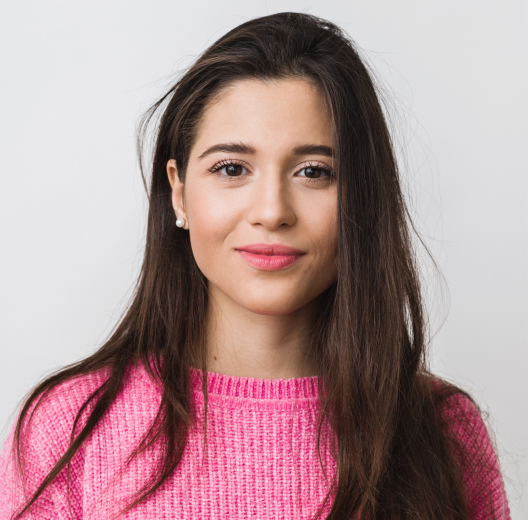
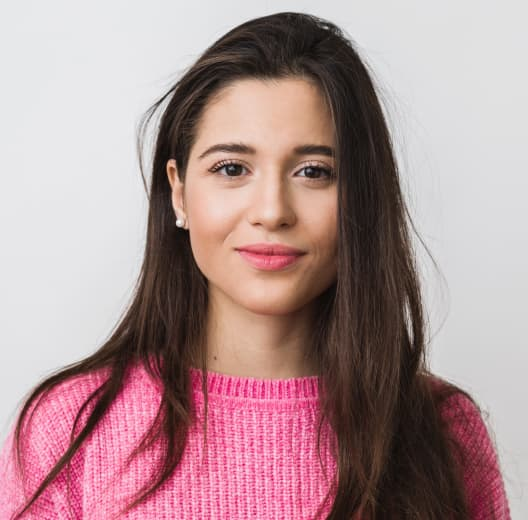
pict-going

diff --git a/index.html b/index.html
@@ -173,7 +173,7 @@
             </li>
             <li class="heroes">
               <img
-                srcset="./images/img3.jpg 1x, ./images/img3-2x.png 2x"
+                srcset="./images/img3.jpg 1x, ./images/img3-2x.jpg 2x"
                 src="./images/img3.jpg"
                 height="260"
                 alt="Tom Ford"
